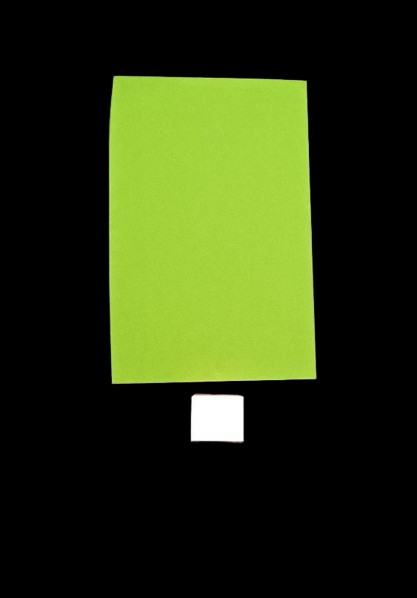
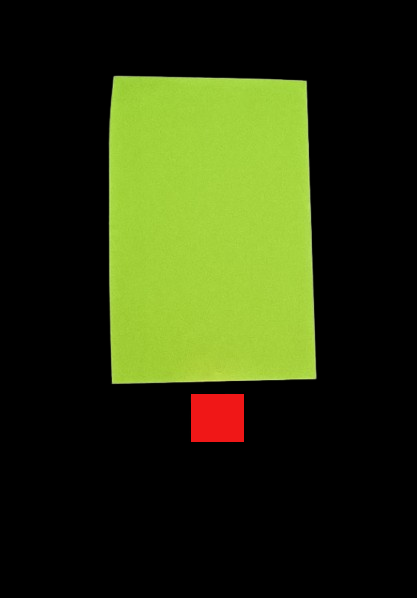
change code

Changed region(s): [[0.4365, 0.6321, 0.5923, 0.7525]]

diff --git a/Individual_Code/Jacques Van Niekerk/latest/file.py b/Individual_Code/Jacques Van Niekerk/latest/file.py
@@ -15,34 +15,40 @@ sys.stdout = file
 def calibration_cube_filter(path):
     input_image = cv2.imread(path)
     
-    #input_image = cv2.GaussianBlur(input_image, (9, 9), 0) 
-    
-    #kernel = np.ones((9, 9), np.uint8)
-    #input_image = cv2.erode(input_image, kernel, iterations=1) 
-    #cv2.imshow("Dilation", input_image)
-    
     hsv = cv2.cvtColor(input_image, cv2.COLOR_BGR2HSV) 
 
-    sensitivity = 10
-    lower_white = np.array([0,0,100-sensitivity])
-    upper_white = np.array([0,sensitivity,255])
+    #sensitivity = 10
+    #lower_white = np.array([0,0,100-sensitivity])
+    #upper_white = np.array([0,sensitivity,255])
+    lower_red = np.array([0,50,50]) #example value
+    upper_red = np.array([10,255,255]) #example value
     
-    mask = cv2.inRange(hsv, lower_white, upper_white)
+    mask = cv2.inRange(hsv, lower_red, upper_red)
     input_image = cv2.bitwise_and(input_image, input_image, mask = mask)
 
-    #input_image = cv2.dilate(input_image, kernel, iterations=6)
-    #cv2.imshow("Dilation", input_image)
-
-    cv2.imshow("Calibration Cube Filter Image", input_image)
+    #cv2.imshow("Calibration Cube Filter Image", input_image)
     cv2.imwrite("./images/results/calibration_cube_filter.jpg", input_image)
-
-    cv2.waitKey(0) 
+    
+    calibration_cube_edge()
 
     return
 
 
 
+def calibration_cube_edge():
+    img = cv2.imread('./images/results/calibration_cube_filter.jpg')
+    image_rgb = cv2.cvtColor(img, cv2.COLOR_BGR2RGB)
+
+    edges = cv2.Canny(image= image_rgb, threshold1=100, threshold2=700)
+    cv2.imshow("Edge", edges)
+    cv2.imwrite("./images/results/calibration_cube_filter.jpg", edges)
+    
+    cv2.waitKey(0)
+
+
+
 def calibration_cube_coordinates():
+    
     font = cv2.FONT_HERSHEY_COMPLEX 
     img2 = cv2.imread('./images/results/calibration_cube_filter.jpg', cv2.IMREAD_COLOR) 
     img = cv2.imread('./images/results/calibration_cube_filter.jpg', cv2.IMREAD_GRAYSCALE) 
@@ -51,7 +57,7 @@ def calibration_cube_coordinates():
 
     coordinateListY_cube = []
     coordinateListX_cube = []
-
+    
     for cnt in contours : 
         approx = cv2.approxPolyDP(cnt, 0.009 * cv2.arcLength(cnt, True), True) 
         cv2.drawContours(img2, [approx], 0, (0, 0, 255), 5)  
@@ -253,9 +259,10 @@ def final_data(path):
     print("Real Width: " + str(real_w) + " cm")
     print("Real Area: " + str(real_area) + " cm")
 
+    image = cv2.GaussianBlur(image, (9, 9), 0) 
+    cv2.imshow('Gaussian Blurring', image)
+
     gray = cv2.cvtColor(image, cv2.COLOR_BGR2GRAY)
-    #kernel = np.ones((9, 9), np.uint8) #TODO here
-    #gray = cv2.dilate(gray, kernel, iterations=1) 
 
     cv2.imwrite("./images/results/gray.png",gray)
     area = cv2.countNonZero(gray)
@@ -292,7 +299,7 @@ def acuTest(data, object_area, inputData_r):
 
 
 
-data = "data1"
+data = "data6"
 
 if data == "data1":
     path = './images/data1.png' 
@@ -300,6 +307,9 @@ if data == "data1":
 elif data == "data2":
     path = './images/data2.jpg'
     inputData_r = 2000
+elif data == "data3":
+    path = './images/data3.jpg'
+    inputData_r = 126.04
 elif data == "data5":
     path = './images/data5.png'
     inputData_r = 170.97

diff --git a/Individual_Code/Jacques Van Niekerk/latest/filter_test.py b/Individual_Code/Jacques Van Niekerk/latest/filter_test.py
@@ -6,22 +6,13 @@ def calibration_cube_filter(path):
     input_image = cv2.imread(path)
     h, w = input_image.shape[:2]
     
-    input_image = cv2.GaussianBlur(input_image, (9, 9), 0) 
-    #cv2.imshow('Gaussian Blurring', Gaussian) 
-    
-    kernel = np.ones((9, 9), np.uint8)
-    input_image = cv2.erode(input_image, kernel, iterations=2) 
-    cv2.imshow("Dilation", input_image)
-    
     hsv = cv2.cvtColor(input_image, cv2.COLOR_BGR2HSV) 
 
     sensitivity = 10
-    #lower_white = np.array([0,0,100-sensitivity])
-    #upper_white = np.array([0,sensitivity,255])
-    lower_white = np.array([0, 0, 0])
-    upper_white = np.array([0, 0, 255])
+    lower_red = np.array([0,50,50]) #example value
+    upper_red = np.array([10,255,255]) #example value
     
-    mask = cv2.inRange(hsv, lower_white, upper_white)
+    mask = cv2.inRange(hsv, lower_red, upper_red)
     input_image = cv2.bitwise_and(input_image, input_image, mask = mask)
 
     #input_image = cv2.dilate(input_image, kernel, iterations=2)
@@ -34,6 +25,6 @@ def calibration_cube_filter(path):
 
 cv2.destroyAllWindows() 
 
-#path = './images/data1.png'
-path = './images/data2.jpg'
+path = './images/data1.png'
+#path = './images/data2.jpg'
 calibration_cube_filter(path)

diff --git a/Individual_Code/Jacques Van Niekerk/latest/test.py b/Individual_Code/Jacques Van Niekerk/latest/test.py
@@ -1,0 +1,14 @@
+import cv2
+import numpy as np
+
+def calibration_cube_edge():
+    img = cv2.imread('./images/results/calibration_cube_filter.jpg')
+    image_rgb = cv2.cvtColor(img, cv2.COLOR_BGR2RGB)
+
+    edges = cv2.Canny(image= image_rgb, threshold1=100, threshold2=700)
+    cv2.imshow("Edge", edges)
+    
+    cv2.waitKey(0)
+
+
+calibration_cube_edge()
